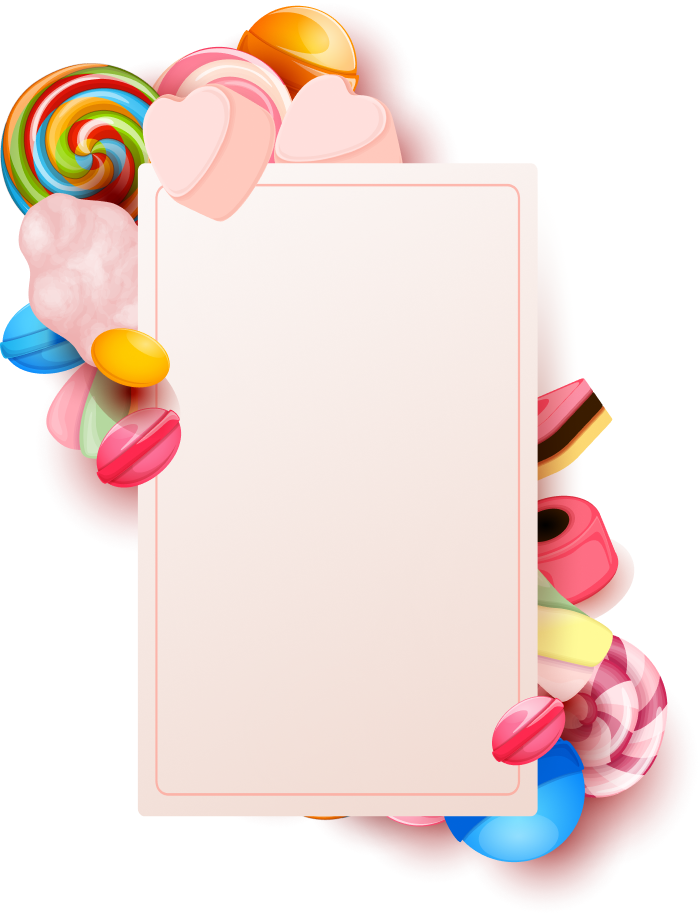
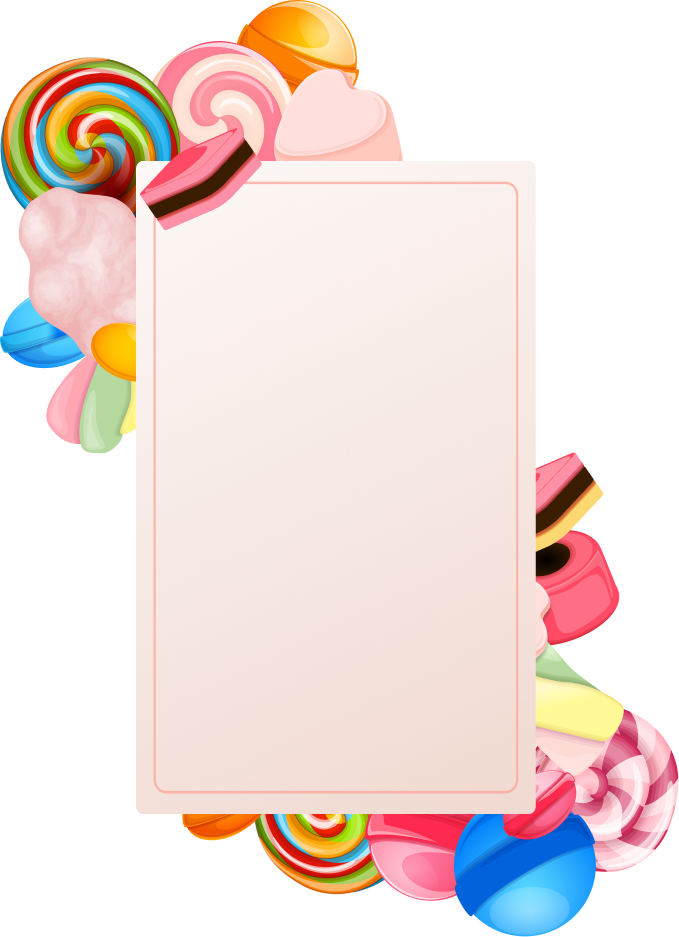
redesign update userprofile image

Changed region(s): [[0.0, 0.0, 1.0, 1.0]]

diff --git a/src/components/UsernamePopup/styles.module.scss b/src/components/UsernamePopup/styles.module.scss
@@ -10,9 +10,9 @@
   background-repeat: no-repeat;
   background-size: contain;
   background-position: center;
-  padding: 170px 210px 80px 190px;
+  padding: 190px 200px 70px 190px;
   width: 700px;
-  height: 740px;
+  height: 790px;
 
   @media (max-width: $screen-sm) {
     padding: 30px 125px 60px;
@@ -25,9 +25,8 @@
   }
 
   @media (max-width: $screen-xs) {
-    padding: 30px 70px 60px;
+    padding: 30px 85px 60px 75px;
     padding-top: 170px;
-    padding-right: 85px;
     background-size: 135% 115%;
   }
 
@@ -87,7 +86,7 @@
       .skipButton {
         font-size: 20px;
         font-weight: 600;
-        color: #EA9C00;
+        color: #ea9c00;
         padding: 0 30px;
         text-decoration: underline;
         cursor: pointer;
@@ -113,7 +112,7 @@
           font-size: 20px;
         }
 
-        &>span>svg {
+        & > span > svg {
           @media (max-width: $screen-sm) {
             width: 140px;
           }
